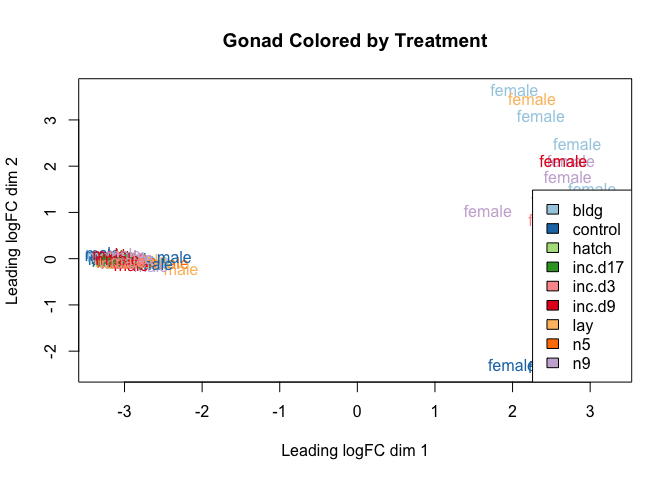
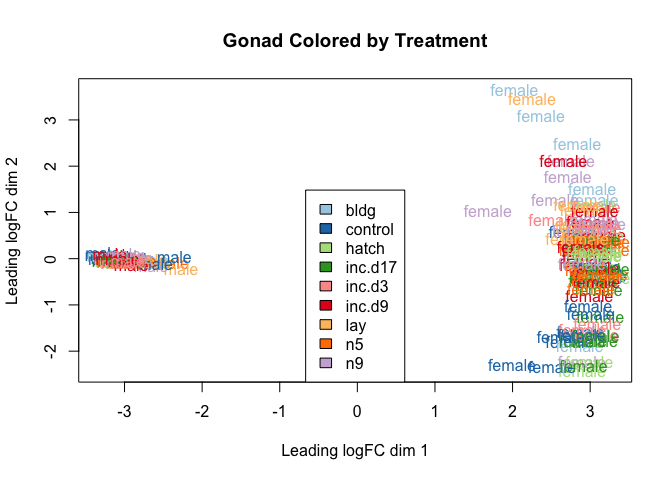
update gonad mds plot

Changed region(s): [[0.7812, 0.375, 0.9375, 0.8125], [0.4688, 0.375, 0.5938, 0.7812]]

diff --git a/scripts/04_limma_gon.md b/scripts/04_limma_gon.md
@@ -47,30 +47,6 @@ First, I read in the data I processed in 00\_datawrangling.Rmd.
     # import "colData" which contains sample information and "countData" which contains read counts
     colData <- read.csv("../results/00_colData_characterization.csv", header = T, row.names = 1)
     countData <- read.csv("../results/00_countData_characterization.csv", header = T, row.names = 1)
-    head(colData)
-
-    ##                                                                            V1
-    ## L.Blu13_male_gonad_control.NYNO               L.Blu13_male_gonad_control.NYNO
-    ## L.Blu13_male_hypothalamus_control.NYNO L.Blu13_male_hypothalamus_control.NYNO
-    ## L.Blu13_male_pituitary_control.NYNO       L.Blu13_male_pituitary_control.NYNO
-    ## L.G107_male_gonad_control                           L.G107_male_gonad_control
-    ## L.G107_male_hypothalamus_control             L.G107_male_hypothalamus_control
-    ## L.G107_male_pituitary_control                   L.G107_male_pituitary_control
-    ##                                           bird  sex       tissue NYNO
-    ## L.Blu13_male_gonad_control.NYNO        L.Blu13 male        gonad NYNO
-    ## L.Blu13_male_hypothalamus_control.NYNO L.Blu13 male hypothalamus NYNO
-    ## L.Blu13_male_pituitary_control.NYNO    L.Blu13 male    pituitary NYNO
-    ## L.G107_male_gonad_control               L.G107 male        gonad <NA>
-    ## L.G107_male_hypothalamus_control        L.G107 male hypothalamus <NA>
-    ## L.G107_male_pituitary_control           L.G107 male    pituitary <NA>
-    ##                                        treatment                     group
-    ## L.Blu13_male_gonad_control.NYNO          control        male.gonad.control
-    ## L.Blu13_male_hypothalamus_control.NYNO   control male.hypothalamus.control
-    ## L.Blu13_male_pituitary_control.NYNO      control    male.pituitary.control
-    ## L.G107_male_gonad_control                control        male.gonad.control
-    ## L.G107_male_hypothalamus_control         control male.hypothalamus.control
-    ## L.G107_male_pituitary_control            control    male.pituitary.control
-
     geneinfo <- read.csv("../results/00_geneinfo.csv", row.names = 1)
 
     colData <- colData %>%
@@ -170,6 +146,9 @@ plotMDS (multidimential scaling)
 
 ![](../figures/gon/plotMDS-1.png)
 
+For color coding, I used this tutorial for guidance
+<a href="https://combine-australia.github.io/RNAseq-R/06-rnaseq-day1.html" class="uri">https://combine-australia.github.io/RNAseq-R/06-rnaseq-day1.html</a>.
+
     levels(colData$treatment)
 
     ## [1] "bldg"    "control" "hatch"   "inc.d17" "inc.d3"  "inc.d9"  "lay"    
@@ -178,19 +157,19 @@ plotMDS (multidimential scaling)
     col.treatment <- c("#a6cee3", "#1f78b4", "#b2df8a", "#33a02c", "#fb9a99", "#e31a1c", "#fdbf6f", "#ff7f00", "#cab2d6")[colData$treatment]
 
     plotMDS(parentalobject,col=col.treatment, labels = colData$sex)
-    legend("bottomright",fill=c("#a6cee3", "#1f78b4", "#b2df8a", "#33a02c", "#fb9a99", "#e31a1c", "#fdbf6f", "#ff7f00", "#cab2d6"),legend=levels(colData$treatment))
+    legend("bottom",fill=c("#a6cee3", "#1f78b4", "#b2df8a", "#33a02c", "#fb9a99", "#e31a1c", "#fdbf6f", "#ff7f00", "#cab2d6"),legend=levels(colData$treatment))
     title("Gonad Colored by Treatment")
 
 ![](../figures/gon/plotMDS-lables-1.png)
 
     plotMDS(parentalobject,dim=c(3,4), col=col.treatment, labels = colData$sex)
-    legend("bottomright",fill=c("#a6cee3", "#1f78b4", "#b2df8a", "#33a02c", "#fb9a99", "#e31a1c", "#fdbf6f", "#ff7f00", "#cab2d6"),legend=levels(colData$treatment))
+    legend("topright",fill=c("#a6cee3", "#1f78b4", "#b2df8a", "#33a02c", "#fb9a99", "#e31a1c", "#fdbf6f", "#ff7f00", "#cab2d6"),legend=levels(colData$treatment))
     title("Gonad Colored by Treatment")
 
 ![](../figures/gon/plotMDS-lables-2.png)
 
-specify contrasts and make MA plots (currently only a subset)
-=============================================================
+specify contrasts and make MA plots
+===================================
 
     # view all levels
     levels(colData$group)
